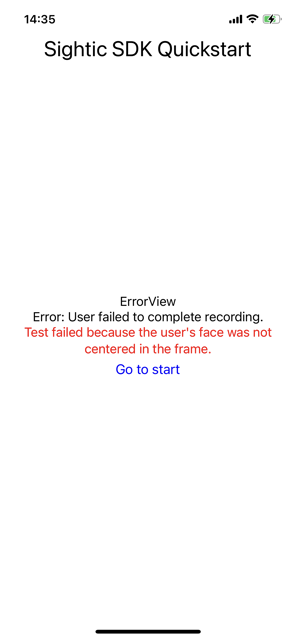
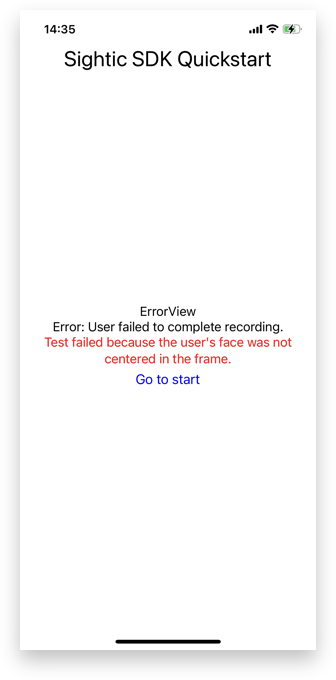
Add drop shadows to screenshots in README.md

diff --git a/README.md b/README.md
@@ -86,7 +86,7 @@ The images below show what the instruction views provided by the SDK look like.
 
 ![Instruction phase - Hold phone straight](images/instruction-view-hold-phone-straight.png)
 
-![Instruction phase - Do not talk](images/instruction-view-do-not-talk.jpeg)
+![Instruction phase - Do not talk](images/instruction-view-do-not-talk.png)
 
 ![Instruction phase - Follow the dot](images/instruction-view-follow-dot.png)
 
@@ -99,7 +99,9 @@ The app shall add alignment hints and a countdown as overlays on the alignment s
 * See `AlignmentHintView` for the SwiftUI variant.
 
 ![Alignment phase - Place face in mask](images/alignment-view-place-face-in-mask.png)
+
 ![Alignment phase - Hold phone closer](images/alignment-view-hold-phone-closer.png)
+
 ![Alignment phase - Countdown](images/alignment-view-countdown.png)
 
 ### SighticInferenceView shows test screen
@@ -233,14 +235,14 @@ The `StartViewController` contains a button to go to the `TestViewController`. I
 * Whether to show the instruction screens
 * Whether to overlay the default alignment screen with another view that shows `SighticStatus` provided by the SDK in an optional closure to the app. 
 
-![Start view](images/start-view.jpeg)
+![Start view](images/start-view.png)
 
 ### TestViewController
 
 The `TestViewController` is a container for the `SighticInferenceView`. The `SighticInferenceView` is part of [Sightic Analytics iOS SDK](https://github.com/SighticAnalytics/sightic-sdk-ios) and performs the following phases:
 
 1. Shows an instruction view to the user.<br>
-   ![Instruction view](images/instruction-view.png)
+   ![Instruction view](images/instruction-view-hold-phone-straight.png)
 1. The next step is an alignment screen to help the user position the phone and their head correctly. The QuickStart app overlays the default alignment screen with alignment hints and a countdown using information in the `SighticStatus` closure.<br>
    ![Test in progress view - Positioning camera](images/alignment-view-hold-phone-closer.png)
 1. A dot is shown to the user while the test itself is running. The user is supposed to follow the dot with their eyes.<br>
